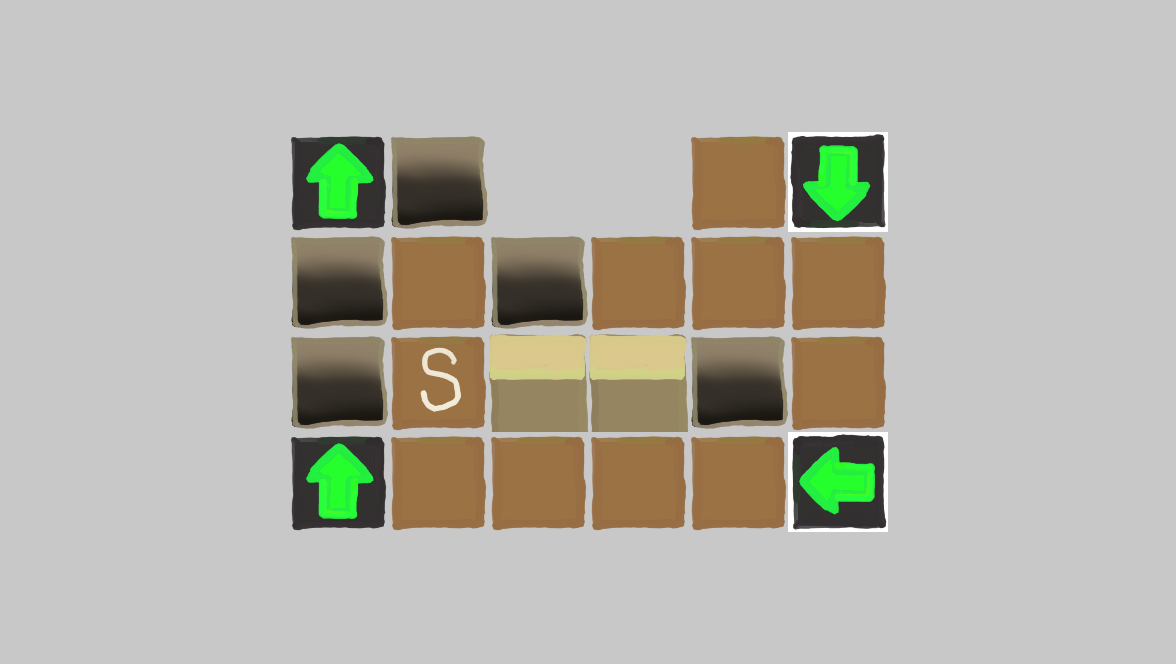
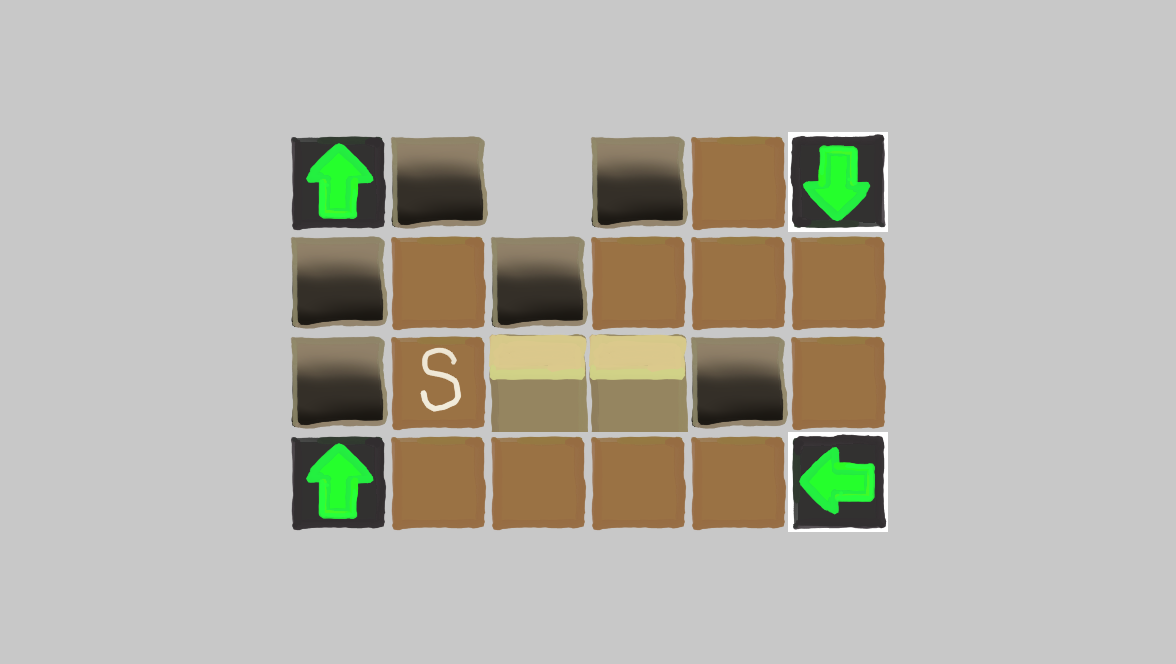
mappuchip動作制作中

Changed region(s): [[0.4898, 0.1807, 0.5816, 0.3614]]

diff --git a/main.py b/main.py
@@ -150,17 +150,20 @@ class sprite_player_class(pygame.sprite.Sprite):
         direction = self.player_direction
         length = max(len(stage), len(stage[0]))
         chip = n
-        if zokusei[0] == "turn":
-            self.player_direction = zokusei[1]
-        elif zokusei[0] == "stop":
-            self.player_direction = zokusei[1]
-
+        
         for i in range(length):
             try:
                 location[0] += direction[0] 
                 location[1] += direction[1] 
-                chip = stage[location[0]][location[1]]
-                # text =  str("ある", chip, location)
+                zokusei = stageMap.chip_effect(stage[location[1]-1][location[0]-1]) #stageのインデックスが[y][x]
+
+                if zokusei[0] == "stop" or stage[location[1]-1][location[0]-1] == h:
+                    location[0] -= direction[0] 
+                    location[1] -= direction[1] 
+                    continue
+                # elif zokusei[0] == "drop" :
+                #     location[0] = 1
+
 
             except Exception as e:
                 continue
@@ -195,6 +198,9 @@ class sprite_player_class(pygame.sprite.Sprite):
             for d in range(gridsizey):
                 if startmap[d][i] == s:
                     self.player_start_point = [1+i,1+d] #今はあれだけど逆だからあとで直してね
+
+    def ():#mapchipで動きを分岐するヤツ
+
 
     def update(self):
 

diff --git a/stageMap.py b/stageMap.py
@@ -15,7 +15,7 @@ def stage_select(stageNum):
             [h,f,p],
             [n,p,n]
         ],[#3
-            [au,p,o,o,n,ad],
+            [au,p,o,p,n,ad],
             [p,n,p,n,n,n],
             [p,s,h,h,p,n],
             [au,n,n,n,n,al]
@@ -59,7 +59,7 @@ def chip_effect(type):
         ,b:("jump",[0,0])
         ,f:("dash",[0,0])
         ,p:("drop",[0,0])
-        ,s:("walk",[0,0]), g:("stop",[0,0]), o:("stop",[0,0]), c:("walk",[0,0])
+        ,s:("walk",[0,0]), g:("stop",[0,0]), o:("stop",[0,0]), c:("drop",[0,0])
         
     }
 
